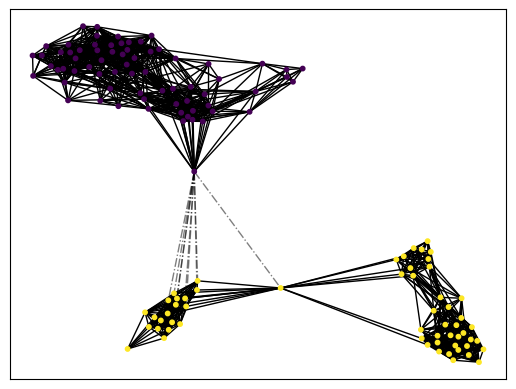
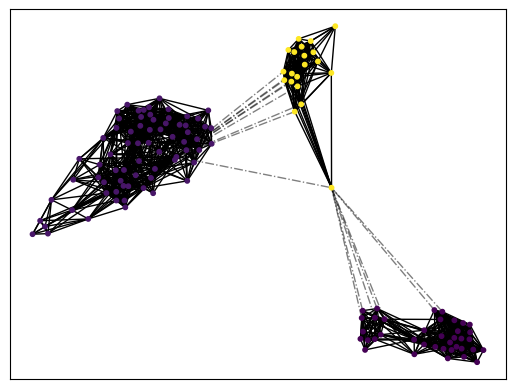
update

diff --git a/extended_version.py b/extended_version.py
@@ -23,18 +23,19 @@ from dwave.system.composites import EmbeddingComposite, LazyFixedEmbeddingCompos
 import json
 import pickle
 
-def define_dirs(n, k, dim, ord, g, custom, type=0):
+def define_dirs(n, k, dim, ord, g, custom,type):
     # n-size, k-k_nn, dim-dimensions, ord-max_degree, g-gamma, custom-for one's needs, type-type of graph
     type_names = ["_", "_trimmed_", "_negedges_", "_trimmed_negedges_"]
+    g = str(g).replace( ".", "")
+
     dirs = {
-        "name"      : ''.join([                   str(n), "_graph_snn", "_k", str(k), "_dim", str(dim), "_g", str(g), type_names[type], str(ord)]                       ),
-        "graph_in"  : ''.join(["./DatasetsIn/"  , str(n), "_graph_snn", "_k", str(k), "_dim", str(dim),               type_names[type], str(ord),         ".gexf"       ]),
-        "graph_out" : ''.join(["./DatasetsOut/" , str(n), "_graph_snn", "_k", str(k), "_dim", str(dim), "_g", str(g), type_names[type], str(ord), custom, "_out.gexf"   ]),
-        "graph_cpr" : ''.join(["./DatasetsOut/" , str(n), "_graph_snn", "_k", str(k), "_dim", str(dim),               type_names[type], str(ord), custom, ".gexf"       ]),
-        "img_in"    : ''.join(["./PlotsIn/"     , str(n), "_graph_snn", "_k", str(k), "_dim", str(dim), "_g", str(g), type_names[type], str(ord), custom, ".png"        ]),
-        "img_out"   : ''.join(["./PlotsOut/"    , str(n), "_graph_snn", "_k", str(k), "_dim", str(dim), "_g", str(g), type_names[type], str(ord), custom, "_out.png"    ]),
-        # "embedding" : ''.join(["./Embedding/"   , str(n), "_graph_snn", "_k", str(k), "_dim", str(dim), "_g", str(g), type_names[type], str(ord), custom, ".json"])
-        "embedding" : ''.join(["./Embedding/"   , str(n), "_graph_snn", "_k", str(k), "_dim", str(dim), "_g", str(g), type_names[type], str(ord), custom, ".json"])
+        "name"              : ''.join([                   str(n), "_graph_snn", "_k", str(k), "_dim", str(dim), "_g", str(g), type_names[type], str(ord)]                       ),
+        "graph_in"          : ''.join(["./DatasetsIn/"  , str(n), "_graph_snn", "_k", str(k), "_dim", str(dim),               type_names[type], str(ord),         ".gexf"       ]),
+        "graph_out"         : ''.join(["./DatasetsOut/" , str(n), "_graph_snn", "_k", str(k), "_dim", str(dim), "_g", str(g), type_names[type], str(ord), custom, "_out.gexf"   ]),
+        "graph_to_compare"  : ''.join(["./DatasetsOut/" , str(n), "_graph_snn", "_k", str(k), "_dim", str(dim),               type_names[type], str(ord), custom, ".gexf"       ]),
+        "img_in"            : ''.join(["./PlotsIn/"     , str(n), "_graph_snn", "_k", str(k), "_dim", str(dim), "_g", str(g), type_names[type], str(ord), custom, ".png"        ]),
+        "img_out"           : ''.join(["./PlotsOut/"    , str(n), "_graph_snn", "_k", str(k), "_dim", str(dim), "_g", str(g), type_names[type], str(ord), custom, "_out.png"    ]),
+        "embedding"         : ''.join(["./Embedding/"   , str(n), "_graph_snn", "_k", str(k), "_dim", str(dim), "_g", str(g), type_names[type], str(ord), custom, ".json"       ])
     }
     return dirs
 
@@ -112,12 +113,10 @@ def open_inspector(G):
     response = sampler.sample_qubo(Q, label=name, chain_strength=chain_strength, num_reads=num_reads)    
     dwave.inspector.show(response) # , block='never'
 
-def clustering(G, iteration, dirs, name, solver, gamma_factor, gamma_type, color, ising, terminate_on):
+def clustering(G, iteration, dirs, name, solver, gamma_factor, gamma_type, color, terminate_on):
 
-    graph_in_name = dirs["embedding"]
-    graph_in_name = ''.join([dirs["embedding"]])
-
-    label = ''.join([name, "_", solver]) 
+    name_spec = ''.join([name, "_", solver]) 
+    name_spec_emb = "./Embedding/" + name_spec + str(iteration) + ".json"
     
     if gamma_type == "by_nodes":
         gamma = gamma_factor / len(G.nodes)
@@ -125,54 +124,51 @@ def clustering(G, iteration, dirs, name, solver, gamma_factor, gamma_type, color
     elif gamma_type == "by_edges":
         edges_weights = G.size(weight="weight")
         nodes_weights = len(G.edges)
-        ratio = edges_weights/nodes_weights 
-        gamma = gamma_factor * ratio
-        k = 8
+        nodes_len = len(G.nodes)
+        edges_len = len(G.edges)
+        ratio = edges_weights/nodes_weights # average weight per edge
+        ## new
+        gamma = gamma_factor * edges_weights/nodes_len
+        #gamma = gamma_factor * ratio
+        print("nodes len: " , nodes_len)
+        print("edges len: " , edges_len)
+        print("ratio: "     , ratio)
+        print("gama: "      , gamma)
+        #k = 8
+        k = 1
     elif gamma_type == "by_edges_old":
         gamma = 100 / len(G.edges)
         k=8
 
-    if ising:
-        h = defaultdict(int)
-        J = defaultdict(int)
-        # Fill in h
-        # for i in G.nodes:
-        #     h[i] += gamma
-        # Fill in J
-        for u, v in G.edges:
-            J[(u,v)] += -G.get_edge_data(u, v)["weight"]
-            J[(u,u)] += gamma
-    else:
-        # Initialize our Q matrix
-        Q = defaultdict(int)
-        # Fill in Q matrix
-        for u, v in G.edges:
-            Q[(u,u)] += k*G.get_edge_data(u, v)["weight"]
-            Q[(v,v)] += k*G.get_edge_data(u, v)["weight"]
-            Q[(u,v)] += k *-2*G.get_edge_data(u, v)["weight"]
 
-        for i in G.nodes:
-            Q[(i,i)] += gamma*(1-len(G.nodes))
+    # Initialize our Q matrix
+    Q = defaultdict(int)
+    # Fill in Q matrix
+    for u, v in G.edges:
+        Q[(u,u)] += k*G.get_edge_data(u, v)["weight"]
+        Q[(v,v)] += k*G.get_edge_data(u, v)["weight"]
+        Q[(u,v)] += k *-2*G.get_edge_data(u, v)["weight"]
 
-        for i, j in combinations(G.nodes, 2): # do you need this term ???
-            Q[(i,j)] += 2*gamma
+    for i in G.nodes:
+        Q[(i,i)] += gamma*(1-len(G.nodes))
+
+    for i, j in combinations(G.nodes, 2):
+        Q[(i,j)] += 2*gamma
 
     # --------------
-    print("Running on QPU...")
+    print("... Running on QPU ...")
     
     num_reads = 1000
     chain_strength = 4
 
     if solver == "hybrid":
         sampler = LeapHybridSampler()
-        if ising:
-            response = sampler.sample_ising(h, J, label=name)
-        else:
-            response = sampler.sample_qubo(Q, label=name)
+        response = sampler.sample_qubo(Q, label=name_spec)
     elif solver == "fixed_embedding":
         save = False
         try:
             a_file = open(dirs["embedding"])
+            # a_file = open(name_spec_emb)
             embedding = json.load(a_file)
             a_file.close()
             sampler = FixedEmbeddingComposite(DWaveSampler(), embedding)
@@ -181,27 +177,22 @@ def clustering(G, iteration, dirs, name, solver, gamma_factor, gamma_type, color
             save = True
             print("generate new embedding")
             sampler = LazyFixedEmbeddingComposite(DWaveSampler())
-            # embedding = embed_ising(h, J, DWaveSampler().edgelist, nx.adjacency_matrix(G))         
-            # sampler = FixedEmbeddingComposite(DWaveSampler(), embedding)
-        if ising:
-            response = sampler.sample_ising(h, J, label=name, chain_strength=chain_strength, num_reads=num_reads) 
-        else:
-            response = sampler.sample_qubo(Q, label=name, chain_strength=chain_strength, num_reads=num_reads)    
+
+        response = sampler.sample_qubo(Q, label=name_spec, chain_strength=chain_strength, num_reads=num_reads)    
+        
         if save:
             embedding = sampler.properties['embedding']
             a_file = open(dirs["embedding"], "w")
+            # a_file = open(name_spec_emb, "w")
             json.dump(embedding, a_file)
             a_file.close()   
     elif solver == "embedding_composite":
         sampler = EmbeddingComposite(DWaveSampler())
-        if ising:
-            response = sampler.sample_isng(h, J, label=name, chain_strength=chain_strength, num_reads=num_reads)
-        else:
-            response = sampler.sample_qubo(Q, label=name, chain_strength=chain_strength, num_reads=num_reads)
+        response = sampler.sample_qubo(Q, label=name_spec, chain_strength=chain_strength, num_reads=num_reads)
 
     # ------- Print results to user -------
     print('-' * 60)
-    print('{:>15s}{:>15s}{:^15s}{:^15s}'.format('Set 0','Set 1','Energy','Cut Size'))
+    print('{:>15s}{:>15s}{:^15s}{:^15s}'.format('Set 0','Set 1','Energy','Num. of occurrences'))
     print('-' * 60)
 
     i=0
@@ -210,7 +201,7 @@ def clustering(G, iteration, dirs, name, solver, gamma_factor, gamma_type, color
         S0 = [k for k,v in sample.items() if v == 0]
         S1 = [k for k,v in sample.items() if v == 1]
 
-        print('{:>15s}{:>15s}{:^15s}{:^15s}{:^15s}'.format(str(S0),str(S1),str(E),str(int(-1*E)),str(occur)))
+        print('{:>15s}{:>15s}{:^15s}{:^15s}'.format(str(S0),str(S1),str(E),str(occur)))
         
         if terminate_on == "conf":
             if i==0:
@@ -234,7 +225,7 @@ def clustering(G, iteration, dirs, name, solver, gamma_factor, gamma_type, color
     print("S0 length: ", len(S0))
     print("S1 length: ", len(S1))
     if terminate_on == "min_size":
-        if(len(S0)>10 and len(S1)>10):
+        if(len(S0)>20 and len(S1)>20):
             # Assign nodes' labels
             col = random.randint(0, 100)
             for i in S0:
@@ -249,16 +240,16 @@ def clustering(G, iteration, dirs, name, solver, gamma_factor, gamma_type, color
             # file_name = "clustring_" + str(iteration) + ".gexf"
             # nx.write_gexf(G, file_name)
 
-            clustering(G.subgraph(S0), iteration+1, dirs, name, solver, gamma_factor, "by_edges", color+20, ising, terminate_on)
-            clustering(G.subgraph(S1), iteration+1, dirs, name, solver, gamma_factor, "by_edges", color+20, ising, terminate_on)
+            clustering(G.subgraph(S0), iteration+1, dirs, name+"l", solver, gamma_factor, "by_edges", color+20, terminate_on)
+            clustering(G.subgraph(S1), iteration+1, dirs, name+"r", solver, gamma_factor, "by_edges", color+20, terminate_on)
     elif terminate_on == "conf":
         print("size1", size1)
         print("size2", size2)
         print("size3", size3)
         confidence = size1/size3
         if confidence > 2 and min(len(S0), len(S1)) > 5:
-            clustering(G.subgraph(S0), iteration+1, dirs, name, solver, gamma_factor, "by_edges", color+20, ising, terminate_on)
-            clustering(G.subgraph(S1), iteration+1, dirs, name, solver, gamma_factor, "by_edges", color+20, ising, terminate_on)
+            clustering(G.subgraph(S0), iteration+1, dirs, name+"l", solver, gamma_factor, "by_edges", color+20, terminate_on)
+            clustering(G.subgraph(S1), iteration+1, dirs, name+"r", solver, gamma_factor, "by_edges", color+20, terminate_on)
     
     return
 
@@ -267,31 +258,33 @@ solvers = {
     "fe"    : "fixed_embedding",
     "ec"    : "embedding_composite"
 }
+solver = solvers["fe"] # type of used solver
+
 n = 128     # size of the graph
 k = 5       # k_nn used for SNN
 ord = 15    # maximum order of node degree when "trimmed" mode is enabled
-dim = 15    # number of dimensions used in SNN
-solver = solvers["fe"]
-type = 0    #["_", "_trimmed_", "_negedges_", "_trimmed_negedges_"], where "_" -> unaltered SNN output
-gamma_factor = 0.25      # gamma
-custom = "clean" # additional metadata for file names
-terminate_on = "min_size"  #or "conf"
-ising = False
-color = 0
+dim = 15    # number of dimensions used for SNN
+type = 1    #["_", "_trimmed_", "_negedges_", "_trimmed_negedges_"], where "_" -> unaltered SNN output
+color = 0   # initial value of clusters coloring
+gamma_factor = 0.05      # gamma_factor, weights the clusters' sizes constraint
+gamma_by = "by_edges" 
+custom = "data_11_03" # additional metadata for file names
+terminate_on = "min_size"  # other options: "conf"
 
-dirs = define_dirs(n, k, dim, ord, 0, custom, type)
+# definition of files locations
+dirs = define_dirs(n, k, dim, ord, gamma_factor, custom, type)
+name = dirs["name"]
 
+# cration of the input graph
 G, pos = create_graph(dirs)
 # plot_and_save_graph_in(G, pos, dirs)
 
-name = dirs["name"]
 iteration = 1
-# response, sampler, embedding = clustering(G, iteration, dirs, name, solver, gamma_factor, "by_edges", color=0, ising=False)
-clustering(G, iteration, dirs, name, solver, gamma_factor, "by_edges", color, ising, terminate_on)
+clustering(G, iteration, dirs, name, solver, gamma_factor, gamma_by, color, terminate_on)
 
 plot_and_save_graph_out(G, pos, dirs)
 
-nx.write_gexf(G, dirs["graph_cpr"])
+nx.write_gexf(G, dirs["graph_to_compare"])
 
 # open_inspector(G)
 
